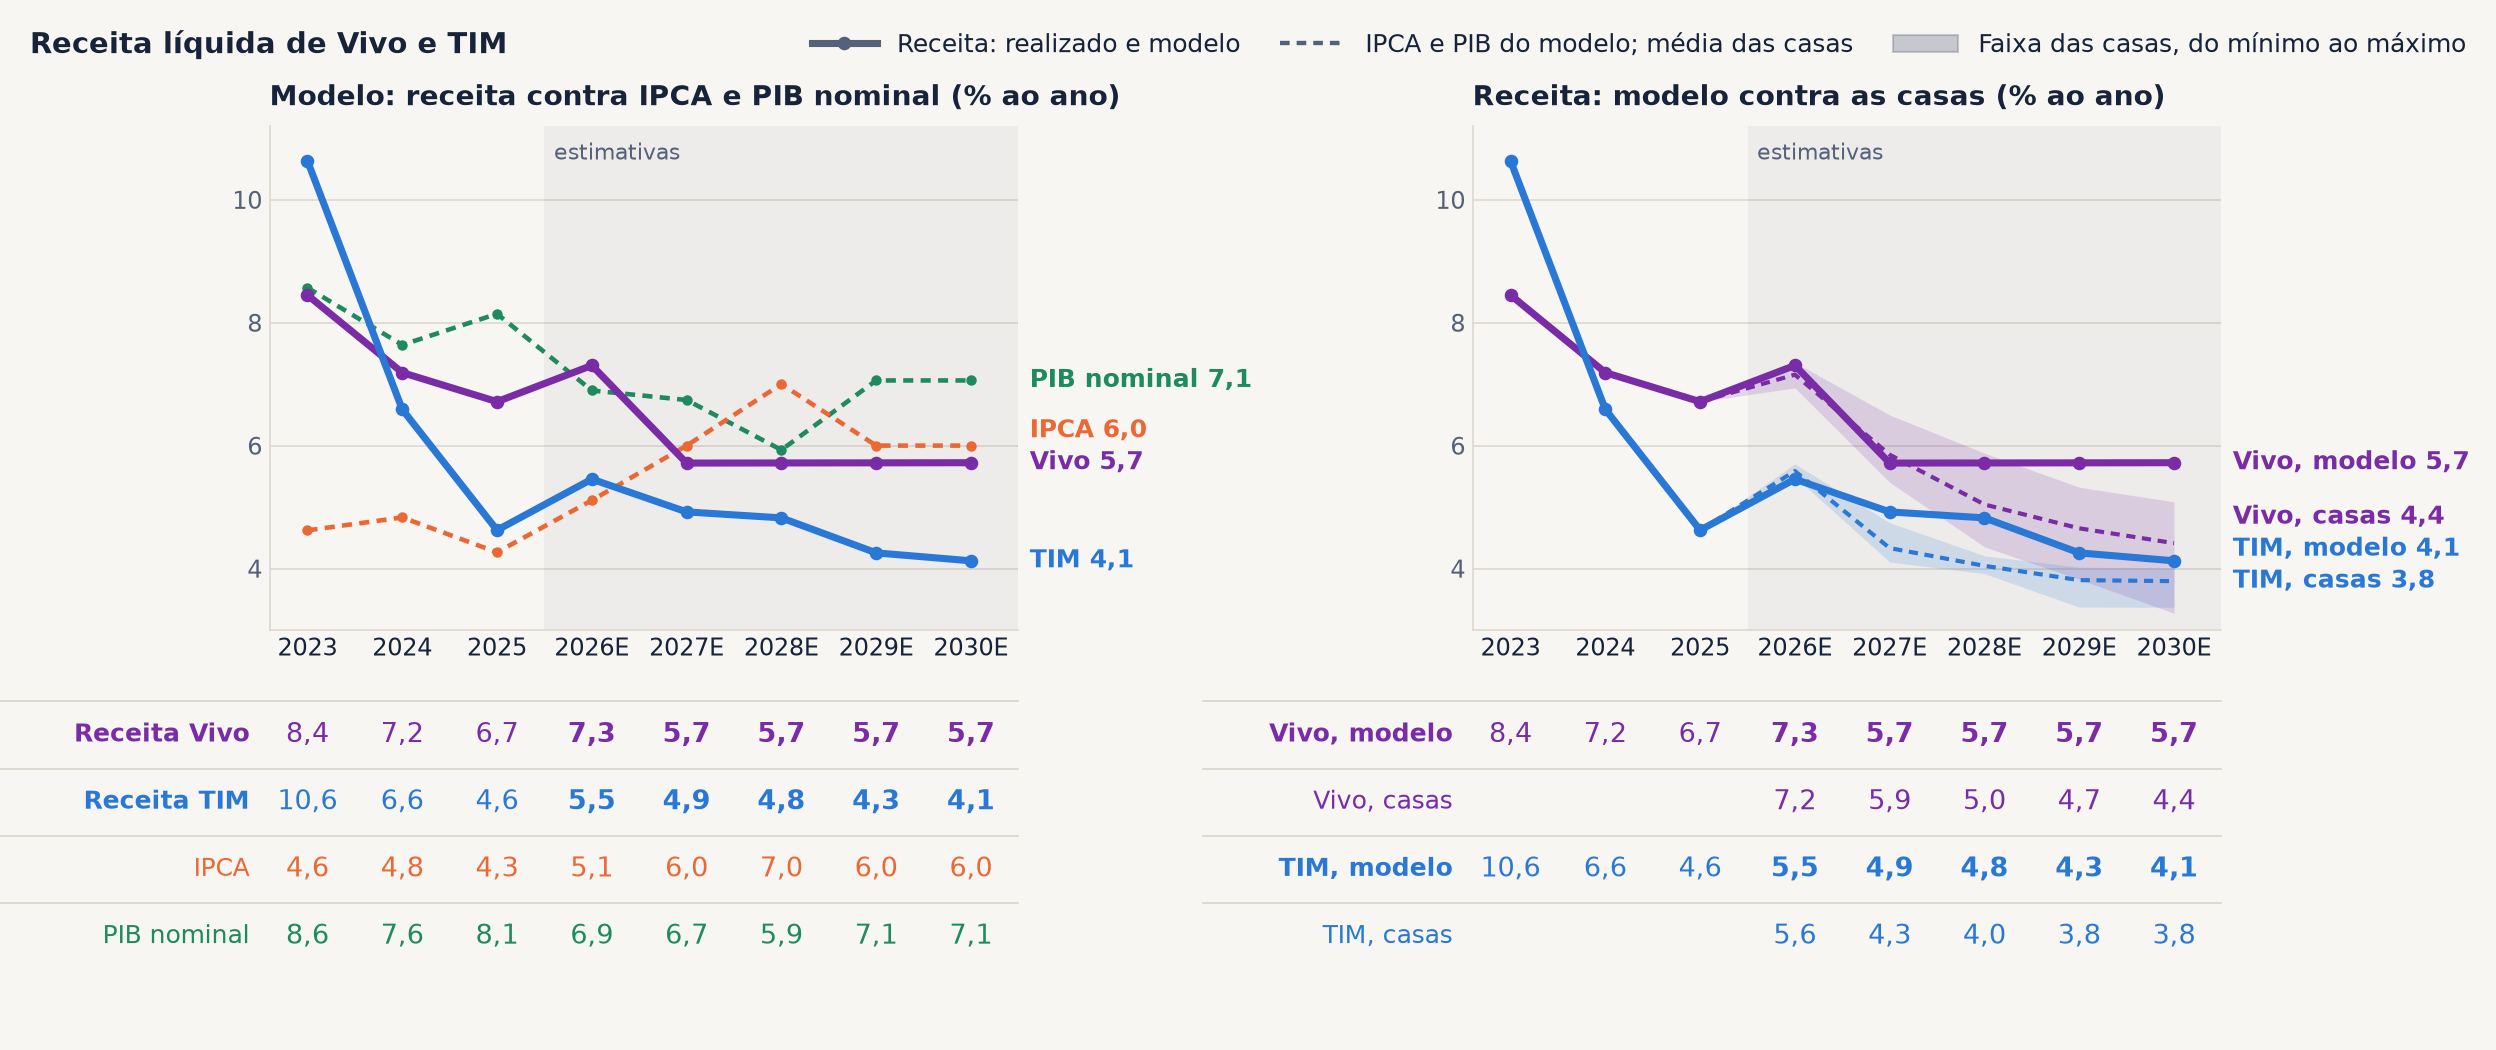
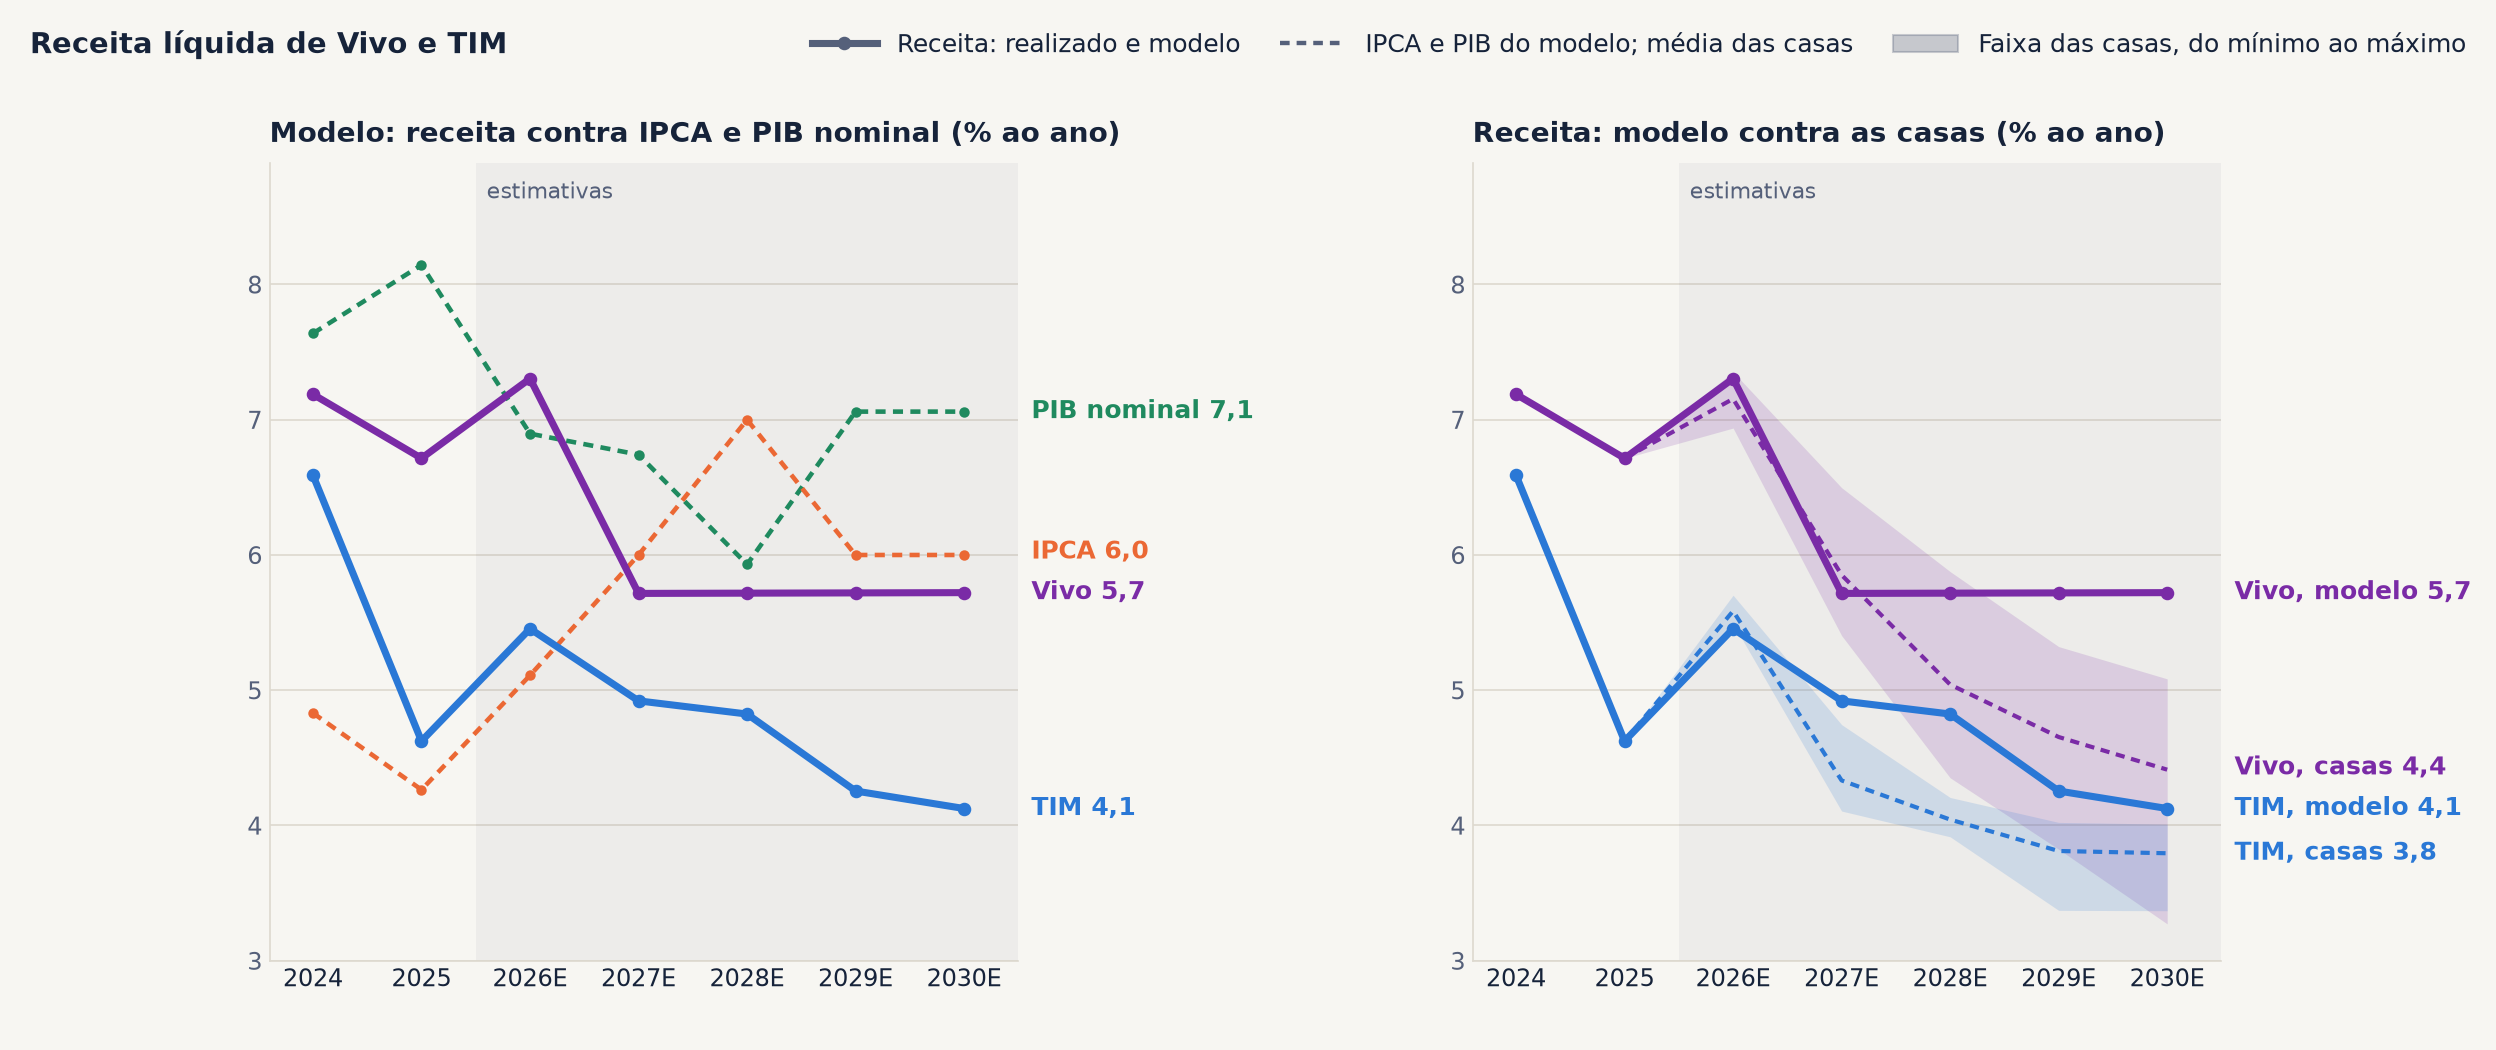
v3.7 · 24/11/2026 20:27 · slide 5 só com os dois gráficos, desde 2024
Saem as tabelas e o ano de 2023.

diff --git a/index.html b/index.html
@@ -40,7 +40,7 @@ h1, h2, h3 { font-family:'Space Grotesk', Arial, sans-serif; }
 <div id="palco">
 <section id="capa" class="capa" data-transition="fade">
 <div>
-<p class="chip">v3.6 · 24/11/2026 20:23</p>
+<p class="chip">v3.7 · 24/11/2026 20:27</p>
 </div>
 <div>
 <h1>Telecom Brasil: Vivo e TIM</h1>
@@ -72,7 +72,7 @@ h1, h2, h3 { font-family:'Space Grotesk', Arial, sans-serif; }
 <section id="rol" data-transition="fade">
 <p class="olho">1 · RECEITA: CONTRA A INFLAÇÃO E O PIB, E CONTRA AS CASAS</p>
 <h2 class="titulo">A receita do modelo cresce menos que a inflação e o PIB nominal de 2027E em diante e, ainda assim, fica até 1,3 ponto acima das casas</h2>
-<img class="graf" src="img/v5_receita_macro.png" alt="Dois gráficos de 2023 a 2030, com a tabela dos números embaixo de cada um. À esquerda, o crescimento ao ano da receita líquida de Vivo e de TIM no modelo contra o IPCA e o PIB nominal do modelo. À direita, a receita de Vivo e de TIM no modelo contra a média das casas, com a faixa do mínimo ao máximo">
+<img class="graf" src="img/v5_receita_macro.png" alt="Dois gráficos de 2024 a 2030. À esquerda, o crescimento ao ano da receita líquida de Vivo e de TIM no modelo contra o IPCA e o PIB nominal do modelo. À direita, a receita de Vivo e de TIM no modelo contra a média das casas, com a faixa do mínimo ao máximo">
 <p class="fonte">Fonte: RI e modelos de Vivo e TIM de 24/11/2026; Banco Central (IPCA e PIB realizados). PIB nominal do modelo = PIB real de 1,7%, 0,7%, -1,0% e 1,0% daí em diante, com o IPCA do modelo. Casas: Itaú BBA, BBI, BTG, Santander e, na Vivo, UBS.</p>
 <aside>Premissas do modelo. IPCA: 5,1% em 2026E, 6,0% em 2027E, 7,0% em 2028E e 6,0% em 2029E e 2030E (DRE do modelo). PIB real: 1,7% em 2026E, 0,7% em 2027E, -1,0% em 2028E e 1,0% de 2029E em diante (premissa informada em 24/11/2026; ainda não está nas planilhas). PIB nominal resultante: 6,9%, 6,7%, 5,9%, 7,1% e 7,1%. Mercado. Focus de 19/11/2026, medianas: IPCA de 5,2%, 5,1%, 4,0%, 4,0% e 4,0%, com respostas entre 3,0% e 6,0% de 2028 em diante; PIB real de 1,7%, 1,0%, 1,7%, 2,0% e 2,0%; PIB nominal de 6,9%, 6,2%, 5,8%, 6,1% e 6,0%, calculado com o IPCA como deflator. O IPCA de 7,0% do modelo em 2028E fica acima da resposta mais alta do Focus. Receita líquida. Vivo no modelo: 7,3% em 2026E e 5,7% de 2027E a 2030E, contra a média das casas de 7,2%, 5,9%, 5,0%, 4,7% e 4,4% (faixa de 3,3% a 5,1% em 2030E). TIM no modelo: 5,5%, 4,9%, 4,8%, 4,3% e 4,1%, contra 5,6%, 4,3%, 4,0%, 3,8% e 3,8% (faixa de 3,4% a 4,0% em 2030E). Em termos reais, com a inflação de cada um: a receita da Vivo no modelo cai 0,3% em 2027E, 1,2% em 2028E e 0,3% em 2029E e 2030E, e nas casas cresce 0,7%, 1,0%, 0,6% e 0,4%; a da TIM no modelo cai 1,0%, 2,0%, 1,6% e 1,8%, e nas casas fica entre -0,7% e zero. Contra o PIB nominal, a receita cresce menos nos dois: Vivo 1,3 ponto abaixo em 2030E no modelo e 1,6 no mercado; TIM 2,9 e 2,2 pontos abaixo. Realizado: IPCA de dezembro contra dezembro e PIB nominal em 12 meses (séries 433 e 4382 do Banco Central); o slide 2 usa o IPCA pela média do ano. O pico da receita em 2022 e 2023 inclui os clientes da Oi e o corte do ICMS.</aside>
 </section>

diff --git a/README.md b/README.md
@@ -1,3 +1,3 @@
 # Telecom Brasil: Vivo e TIM
 
-Deck de telecom (v3.6 · 24/11/2026 20:23): o setor contra a inflação e o PIB, receita, margem, EBITDA, capex e arrendamento, lucro, payout, Fistel e valuation de Vivo e TIM.
+Deck de telecom (v3.7 · 24/11/2026 20:27): o setor contra a inflação e o PIB, receita, margem, EBITDA, capex e arrendamento, lucro, payout, Fistel e valuation de Vivo e TIM.
